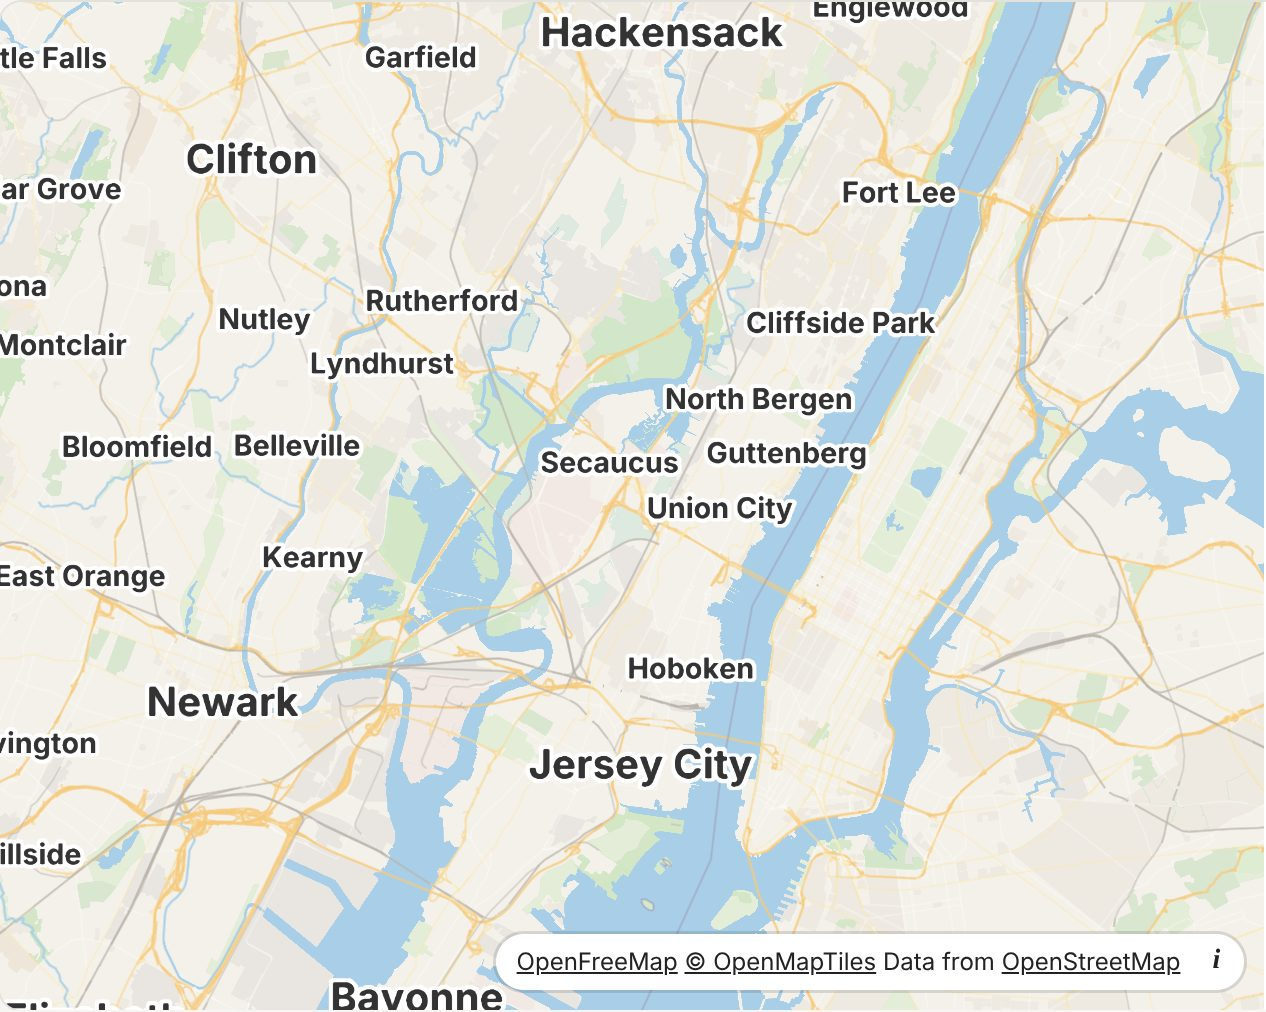
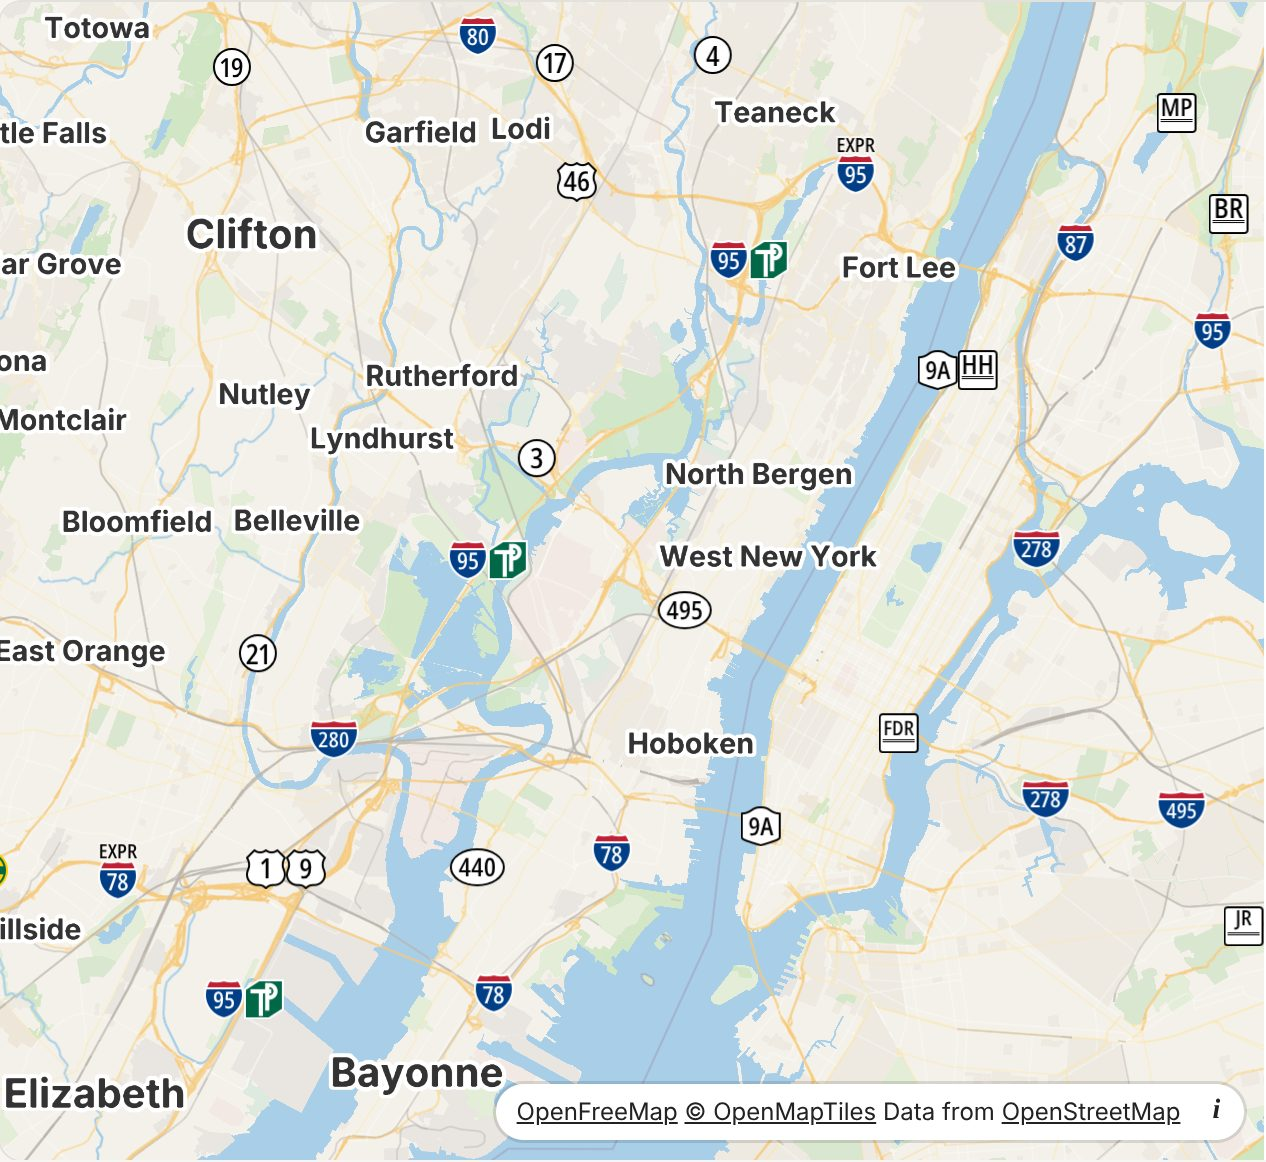
Images inside label text; side-by-side shields in the gallery
A format expression can contain images, which are measured and drawn in
line with the text at their own size. The gallery's shield row uses this
to show every route of a road, as OSM Americana does, and waits for the
shield definitions before adding its layer (requests made earlier were
lost on a cold load). The gallery accepts ?renderer=main or worker.

Claude-Session: https://claude.ai/code/session_013dg4LLCANTGDCd1Js6rXsf

diff --git a/src/text.ts b/src/text.ts
@@ -12,7 +12,15 @@ export const SDF_BUFFER = 4;
 export const SDF_RADIUS = 8;
 const LINE_HEIGHT = 1.2 * EM;
 
-export interface Glyph { x: number; y: number; w: number; h: number; left: number; top: number; advance: number }
+export interface Glyph {
+    x: number; y: number; w: number; h: number; left: number; top: number; advance: number;
+    /** An image in the text rather than a character: its name and height (in the same units as `advance`, which is its width). */
+    image?: string; imageHeight?: number;
+}
+/** Images that can appear inside text: their size in pixels, or undefined while one is not available yet. */
+export type ImageSizes = (name: string) => {width: number; height: number; pixelRatio: number} | undefined;
+// Inside the shaper each image in the text is one private-use character, so line breaking treats it as a single unit.
+const IMAGE_CHAR = 0xE100;
 export interface ShapedLine {
     text: string; width: number; glyphs?: Glyph[];
     /** The line split into the units that are positioned individually, with each one's advance. */
@@ -20,7 +28,7 @@ export interface ShapedLine {
 }
 /** All measurements are in pixels at a font size of EM. */
 export interface Shaped { lines: ShapedLine[]; width: number; height: number; lineHeight: number }
-export interface Shaper { shape(text: string, font: string, maxWidthEm: number, spacingEm: number, lineHeightEm?: number): Shaped }
+export interface Shaper { shape(text: string, font: string, maxWidthEm: number, spacingEm: number, lineHeightEm?: number, sizePx?: number): Shaped }
 
 const COMPLEX = /[֐-ࣿऀ-႟ក-៿יִ-﷿ﹰ-]/;
 const IDEOGRAPH = /[⺀-鿿가-힯豈-﫿＀-￯]/;
@@ -74,17 +82,39 @@ abstract class BaseShaper implements Shaper {
     private cache = new Map<string, Shaped>();
     protected abstract line(text: string, font: string, spacing: number): ShapedLine;
 
-    shape(text: string, font: string, maxWidthEm: number, spacingEm: number, lineHeightEm = 1.2): Shaped {
-        const key = `${font}|${maxWidthEm}|${spacingEm}|${lineHeightEm}|${text}`, LINE_HEIGHT = lineHeightEm * EM;
+    /** Set by whoever can supply images, to allow them inside text. */
+    images?: ImageSizes;
+    /** Images in the text being shaped, by placeholder character, and how many text units one image pixel is. */
+    protected inline: string[] = [];
+    protected imageScale = 1;
+    protected missingImage = false;
+
+    shape(text: string, font: string, maxWidthEm: number, spacingEm: number, lineHeightEm = 1.2, sizePx = 16): Shaped {
+        const hasImages = text.includes('\uE000');
+        const key = `${font}|${maxWidthEm}|${spacingEm}|${lineHeightEm}|${hasImages ? sizePx : ''}|${text}`, LINE_HEIGHT = lineHeightEm * EM;
         let s = this.cache.get(key);
         if (!s) {
             if (this.cache.size > 5000) this.cache.clear();
             const spacing = spacingEm * EM;
+            this.inline = []; this.missingImage = false;
+            // An image is drawn at its own size whatever the text size, so its width in text units depends on that size.
+            this.imageScale = EM / sizePx;
+            if (hasImages) text = text.replace(/\uE000([^\uE001]*)\uE001/g, (_, name) => this.images ? String.fromCharCode(IMAGE_CHAR + this.inline.push(name) - 1) : '');
             const lines = wrap(text, maxWidthEm * EM, t => this.line(t, font, spacing).width).map(t => this.line(t, font, spacing));
             s = {lines, width: Math.max(...lines.map(l => l.width)), height: lines.length * LINE_HEIGHT, lineHeight: LINE_HEIGHT};
-            this.cache.set(key, s);
+            // Text waiting for an image is shaped again once the image has arrived.
+            if (!this.missingImage) this.cache.set(key, s);
         }
         return s;
+    }
+    /** The stand-in glyph for an image placeholder character, or null for an ordinary character. */
+    protected imageGlyph(part: string): Glyph | null {
+        const i = part.charCodeAt(0) - IMAGE_CHAR;
+        if (part.length !== 1 || i < 0 || i >= this.inline.length) return null;
+        const name = this.inline[i], img = this.images?.(name);
+        if (!img) { this.missingImage = true; return {x: 0, y: 0, w: 0, h: 0, left: 0, top: 0, advance: EM, image: name, imageHeight: EM}; }
+        const k = this.imageScale / img.pixelRatio;
+        return {x: 0, y: 0, w: 0, h: 0, left: 0, top: 0, advance: img.width * k, image: name, imageHeight: img.height * k};
     }
     reset() { this.cache.clear(); }
 }
@@ -96,7 +126,7 @@ export class EstimateShaper extends BaseShaper {
         const bold = /[6-9]00/.test(font) ? 1.06 : 1, chars: string[] = [], advances: number[] = [];
         for (const ch of text) {
             n++;
-            const a = IDEOGRAPH.test(ch) ? EM : /[iljtfr.,:;'|! ]/.test(ch) ? EM * 0.3 : /[mwMW@]/.test(ch) ? EM * 0.85 : /[A-Z0-9]/.test(ch) ? EM * 0.66 : EM * 0.54;
+            const a = this.imageGlyph(ch)?.advance ?? (IDEOGRAPH.test(ch) ? EM : /[iljtfr.,:;'|! ]/.test(ch) ? EM * 0.3 : /[mwMW@]/.test(ch) ? EM * 0.85 : /[A-Z0-9]/.test(ch) ? EM * 0.66 : EM * 0.54);
             w += a; chars.push(ch); advances.push(a * bold);
         }
         return {text, width: w * bold + spacing * Math.max(0, n - 1), chars, advances};
@@ -138,7 +168,7 @@ export class GlyphAtlas extends BaseShaper {
     protected line(text: string, font: string, spacing: number): ShapedLine {
         // One atlas entry per grapheme, or per whole line when the browser must shape it.
         const parts = COMPLEX.test(text) ? [text] : graphemes(text);
-        const glyphs = parts.map(p => this.glyph(p, font));
+        const glyphs = parts.map(p => this.imageGlyph(p) ?? this.glyph(p, font));
         let width = spacing * Math.max(0, glyphs.length - 1);
         for (const g of glyphs) width += g.advance;
         return {text, width, glyphs, chars: parts, advances: glyphs.map(g => g.advance)};

diff --git a/site/gallery.js b/site/gallery.js
@@ -3,11 +3,13 @@
 import {Map, NavigationControl, ScaleControl, FullscreenControl} from 'map-jr-gl';
 import makeStyle from '../demo/style.mjs';
 import {markers, photos, manyMarkers, dot, pin} from '../demo/markers.mjs';
-import {americanaShields, shieldImage} from './americana.js';
+import {americanaShields, shieldRow} from './americana.js';
 
 const STYLE = makeStyle('https://tiles.openfreemap.org/planet', '<a href="https://openfreemap.org">OpenFreeMap</a> <a href="https://www.openmaptiles.org/">© OpenMapTiles</a> Data from <a href="https://www.openstreetmap.org/copyright">OpenStreetMap</a>');
 const NYC = [-74.0065, 40.7085], MATTERHORN = [7.6586, 45.9763];
-const base = (container, extra = {}) => new Map({container, style: structuredClone(STYLE), center: NYC, zoom: 13.6, attributionControl: {compact: true}, ...extra});
+// Add ?renderer=main (or worker) to the address to choose where the maps are drawn.
+const renderer = new URLSearchParams(location.search).get('renderer') ?? 'auto';
+const base = (container, extra = {}) => new Map({container, style: structuredClone(STYLE), center: NYC, zoom: 13.6, attributionControl: {compact: true}, renderer, ...extra});
 const loaded = map => new Promise(done => map.once('load', () => done(map)));
 const button = (row, label, onClick) => { const b = Object.assign(document.createElement('button'), {textContent: label}); b.onclick = () => onClick(b); row.actions.append(b); return b; };
 
@@ -83,7 +85,7 @@ const metres = await map.queryElevation(lngLat);`,
             row.out('Click the map to read the elevation'); return map; }},
 
     {id: 'shields', title: 'Icons made on demand: highway shields',
-        points: ['An icon that the style names but no sprite contains can be drawn when it is first necessary.', 'This row runs the OSM Americana shield library without changes. It draws the correct sign for each route network.', 'OpenMapTiles data (for example OpenFreeMap) already contains the route information.'],
+        points: ['An icon that the style names but no sprite contains can be drawn when it is first necessary.', 'This row runs the OSM Americana shield library without changes. It draws the correct sign for each route network, and puts the signs of a road with more than one route side by side.', 'OpenMapTiles data (for example OpenFreeMap) already contains the route information.'],
         code: `// A resolver gets the icon name and supplies the image. SVG is accepted.
 map.setMissingStyleImageResolver(name => {
   const [kind, network, ref] = name.split('|');
@@ -94,17 +96,21 @@ map.addLayer({id: 'shields', type: 'symbol', source: 'omt',
   'source-layer': 'transportation_name',
   layout: {
     'symbol-placement': 'line',
-    'icon-rotation-alignment': 'viewport',
-    'icon-image': ['concat', 'shield|', ['get', 'route_1_network'], '|', ['get', 'route_1_ref']],
+    'text-rotation-alignment': 'viewport',
+    // Images in the text put the shields of a road with two routes side by side.
+    'text-field': ['format',
+      ['image', ['concat', 'shield|', ['get', 'route_1_network'], '|', ['get', 'route_1_ref']]], {},
+      ['image', ['concat', 'shield|', ['get', 'route_2_network'], '|', ['get', 'route_2_ref']]], {}],
   }});`,
         make: async (el, row) => { const map = await loaded(base(el, {zoom: 10.2, center: [-74.05, 40.78]}));
             map.setLayoutProperty('road-shield', 'visibility', 'none');
-            map.addLayer({id: 'americana-shield', type: 'symbol', source: 'omt', 'source-layer': 'transportation_name', minzoom: 6, filter: ['has', 'route_1_network'],
-                layout: {'symbol-placement': 'line', 'symbol-spacing': 300, 'icon-rotation-alignment': 'viewport', 'icon-image': shieldImage(1)}});
+            row.out('Loading shield definitions');
+            await americanaShields(map);
             let drawn = 0;
             map.on('styleimagemissing', () => row.out(`${++drawn} different shields drawn`));
-            row.out('Loading shield definitions');
-            await americanaShields(map); return map; }},
+            map.addLayer({id: 'americana-shield', type: 'symbol', source: 'omt', 'source-layer': 'transportation_name', minzoom: 6, filter: ['has', 'route_1_network'],
+                layout: {'symbol-placement': 'line', 'symbol-spacing': 300, 'text-rotation-alignment': 'viewport', 'text-field': shieldRow(4), 'text-padding': 6}});
+            return map; }},
 
     {id: 'query', title: 'Ask the map what is at a position',
         points: ['queryFeatures reads the tile data directly. A style layer is not necessary, and hidden data is included.', 'Feature state changes how one feature looks, for example on hover.', 'GeoJSON sources update in place with setData.'],

diff --git a/src/gl.ts b/src/gl.ts
@@ -1022,7 +1022,7 @@ export class GLRenderer {
 
         // Style-sheet icons and images added at runtime live in different textures.
         for (const custom of [false, true]) {
-            const icons = this.iconQuads(s.labels, custom);
+            const icons = this.iconQuads(s.labels, custom, s.icon);
             if (!icons.length) continue;
             const u = use('sprite');
             gl.activeTexture(gl.TEXTURE0);
@@ -1086,7 +1086,7 @@ export class GLRenderer {
         return behind;
     }
 
-    private iconQuads(labels: Placed[], custom: boolean): Float32Array {
+    private iconQuads(labels: Placed[], custom: boolean, lookup?: Scene['icon']): Float32Array {
         const mine = labels.filter(l => l.icon && !!l.icon.custom === custom && l.opacity > 0);
         const out: number[] = [];
         for (const {icon, opacity} of mine) {
@@ -1104,6 +1104,30 @@ export class GLRenderer {
                     out.push(i.x + ox + dx * cos - dy * sin, i.y + oy + dx * sin + dy * cos, sx + gx[a + cx * 2], sy + gy[b + cy * 2], opacity * i.opacity, ...col);
                 }
             }
+        }
+        // Images inside label text (`format` with `image`): each sits on its line where a glyph would, at its own size.
+        if (lookup) for (const l of labels) {
+            const shaped = l.shaped;
+            if (!shaped || l.curve || l.opacity <= 0) continue;
+            const k = l.size / EM, cos = Math.cos(l.angle), sin = Math.sin(l.angle);
+            shaped.lines.forEach((line, row) => {
+                if (!line.glyphs?.some(g => g.image)) return;
+                let pen = l.src.justify < 0 ? -shaped.width / 2 : l.src.justify > 0 ? shaped.width / 2 - line.width : -line.width / 2;
+                const mid = -shaped.height / 2 + (row + 0.5) * shaped.lineHeight;
+                for (const g of line.glyphs) {
+                    const img = g.image ? lookup(g.image) : undefined;
+                    if (img && !!img.custom === custom) {
+                        const w = g.advance * k, h = g.imageHeight! * k, cx = (pen + g.advance / 2) * k, cy = mid * k;
+                        const snap = (v: number) => Math.round(v * this.dpr) / this.dpr;
+                        const x0 = l.angle === 0 ? snap(l.x + cx - w / 2) - l.x : cx - w / 2, y0 = l.angle === 0 ? snap(l.y + cy - h / 2) - l.y : cy - h / 2;
+                        for (const [ux, uy] of [[0, 0], [1, 0], [0, 1], [1, 0], [1, 1], [0, 1]]) {
+                            const dx = x0 + ux * w, dy = y0 + uy * h;
+                            out.push(l.x + dx * cos - dy * sin, l.y + dx * sin + dy * cos, img.x + ux * img.width, img.y + uy * img.height, l.opacity, 0, 0, 0, -1);
+                        }
+                    }
+                    pen += g.advance + l.src.spacing * EM;
+                }
+            });
         }
         return new Float32Array(out);
     }

diff --git a/src/expr.ts b/src/expr.ts
@@ -89,6 +89,9 @@ export function featureStateOf(source: string | undefined, sourceLayer: string |
     return states && states[`${sourceLayer ?? ''}|${id}`];
 }
 
+/** An image inside label text (`format` with `image`) travels through the text as its name between these two characters. */
+export const IMAGE_OPEN = '\uE000', IMAGE_CLOSE = '\uE001', IMAGE_IN_TEXT = /\uE000([^\uE001]*)\uE001/g;
+
 function colorize(v: any): any {
     return typeof v === 'string' ? (parseColor(v) ?? v) : v;
 }
@@ -261,11 +264,17 @@ export function compileExpr(e: any, flags: Flags): Fn {
             return c => color([a[0](c) / 255, a[1](c) / 255, a[2](c) / 255, a[3] ? a[3](c) : 1]);
         }
         case 'format': {
-            // Rich text sections are flattened to plain text for now.
+            // Rich text is flattened to plain text, except for images, which stay in the string as markers (see
+            // IMAGE_OPEN) and are drawn in line with the text.
             const parts: Fn[] = [];
-            for (let i = 1; i < e.length; i++) if (typeof e[i] !== 'object' || Array.isArray(e[i])) parts.push(arg(i));
+            for (let i = 1; i < e.length; i++) {
+                const part = e[i];
+                if (Array.isArray(part) && part[0] === 'image') { const name = compileExpr(part[1], flags); parts.push(c => { const n = name(c); return n ? IMAGE_OPEN + n + IMAGE_CLOSE : ''; }); }
+                else if (typeof part !== 'object' || Array.isArray(part)) parts.push(arg(i));
+            }
             return c => parts.map(f => f(c) ?? '').join('');
         }
+        case 'image': return arg(1);
         case 'number-format': {
             const a = arg(1), o = e[2] ?? {}, cache = new Map<string, Intl.NumberFormat>();
             const opt = (k: string) => o[k] === undefined ? null : compileExpr(o[k], flags);

diff --git a/site/americana.js b/site/americana.js
@@ -46,6 +46,12 @@ async function loadShieldFonts(base = 'https://webfont.americanamap.org/noto/') 
     }));
 }
 
+/**
+ * A `text-field` that shows up to `count` shields side by side, one for each route that uses the road. Roads often
+ * carry more than one route (an Interstate and a US route, for example).
+ */
+export const shieldRow = (count = 4) => ['format', ...Array.from({length: count}, (_, i) => [['image', ['case', ['has', `route_${i + 1}_network`], shieldImage(i + 1), '']], {}]).flat()];
+
 /** Draws Americana shields for any image named by `shieldImage`. OpenMapTiles data (e.g. OpenFreeMap) carries what it needs. */
 export async function americanaShields(map, {shields = 'https://americanamap.org/shields.json', sprite = 'https://americanamap.org/sprites/sprite'} = {}) {
     const parser = {
@@ -53,10 +59,14 @@ export async function americanaShields(map, {shields = 'https://americanamap.org
         format: (network, ref, name) => `shield\n${network}\n${ref}\n${name}`,
     };
     await loadShieldFonts();
-    return new URLShieldRenderer(shields, parser)
+    const renderer = new URLShieldRenderer(shields, parser)
         .filterImageID(id => id.startsWith('shield\n'))
         // Walking, cycling and other non-road route networks are not highway shields.
         .filterNetwork(network => !/^[lrni][chimpw]n$/.test(network))
         .renderOnRepository(await spriteRepository(map, sprite))
         .renderOnMaplibreGL(map);
+    // The definitions download in the background. A shield that is asked for before they arrive is not drawn (and a
+    // map asks for each image only once), so wait for them before adding a layer that uses shields.
+    await new Promise(done => renderer.onShieldDefLoad(done));
+    return renderer;
 }

diff --git a/test/unit/core.test.ts b/test/unit/core.test.ts
@@ -454,3 +454,18 @@ test('padding: the centre moves to the middle of the unpadded area, consistently
     const clip = [0, 1, 3].map(r => m[r] * 1000 + m[4 + r] * 3000 + m[12 + r]);
     assert.ok(Math.abs((clip[0] / clip[2] + 1) / 2 * 800 - sx) < 1e-3 && Math.abs((1 - clip[1] / clip[2]) / 2 * 600 - sy) < 1e-3, `${clip} vs ${sx},${sy}`);
 });
+
+test('text: images in a format expression travel through the text and are measured as single units', async () => {
+    const {IMAGE_OPEN, IMAGE_CLOSE} = await import('../../src/expr.ts');
+    const {EstimateShaper, EM} = await import('../../src/text.ts');
+    const field = compileProp(['format', ['image', ['get', 'a']], {}, 'AB', {}, ['image', ['coalesce', ['get', 'missing'], '']], {}], 'string', '');
+    const text = field.eval(10, {type: 1, properties: {a: 'shield one'}});
+    assert.equal(text, `${IMAGE_OPEN}shield one${IMAGE_CLOSE}AB`, 'an image with no name leaves nothing behind');
+    // A shaper that knows the image is 40 pixels wide at 2x: at 16-pixel text that is 20 pixels, or 30 text units.
+    const shaper = new EstimateShaper();
+    shaper.images = name => name === 'shield one' ? {width: 40, height: 40, pixelRatio: 2} : undefined;
+    const plain = shaper.shape('AB', 'x', 100, 0, 1.2, 16).width;
+    assert.ok(Math.abs(shaper.shape(text, 'x', 100, 0, 1.2, 16).width - plain - 40 / 2 * EM / 16) < 1e-6);
+    // Without anyone to supply images (the server renderer), the image is simply left out.
+    assert.equal(new EstimateShaper().shape(text, 'x', 100, 0, 1.2, 16).width, plain);
+});

diff --git a/src/tile.ts b/src/tile.ts
@@ -117,7 +117,11 @@ export function buildTile(data: Uint8Array | TileLayers, z: number, layers: Comp
                 const iconName = tokens(p.icon.eval(z, f));
                 if (!text && !iconName) continue;
                 const tt = p.transform.eval(z, f);
-                if (tt === 'uppercase') text = text.toUpperCase(); else if (tt === 'lowercase') text = text.toLowerCase();
+                if (tt === 'uppercase' || tt === 'lowercase') {
+                    // (Image names inside the text are left as they are.)
+                    const change = (t: string) => tt === 'uppercase' ? t.toUpperCase() : t.toLowerCase();
+                    text = text.split(/(\uE000[^\uE001]*\uE001)/).map((part, i) => i % 2 ? part : change(part)).join('');
+                }
                 const color = p.color.eval(z, f) as RGBA, op = p.opacity.eval(z, f);
                 const along = p.placement.eval(z, f) !== 'point';
                 const base = {

diff --git a/src/placement.ts b/src/placement.ts
@@ -96,7 +96,7 @@ export function placeLabels(
                 if (tr.heightAt) { const n = 2 ** it.id.z; if (tr.occluded((it.id.x + it.id.w * n + l.x / EXTENT) / n, (it.id.y + l.y / EXTENT) / n)) continue; }
                 const size = l.size0 + (l.size1 - l.size0) * t, s = size / EM, line = l.angle !== null;
                 const meta = l.icon ? icons?.(l.icon.name) : undefined;
-                const shaped = l.text ? shaper.shape(l.text, l.font, line ? 1e3 : l.maxWidth, l.spacing, l.lineHeight) : null;
+                const shaped = l.text ? shaper.shape(l.text, l.font, line ? 1e3 : l.maxWidth, l.spacing, l.lineHeight, l.size0) : null;
                 const w = shaped ? shaped.width * s : 0, h = shaped ? shaped.height * s : 0;
                 const hasText = w > 0;
                 if (!hasText && !meta) continue;

diff --git a/src/svg.ts b/src/svg.ts
@@ -191,7 +191,7 @@ export function renderSVG(s: SVGScene): string {
             shaped.lines.forEach((line, i) => {
                 const y = l.y + (-shaped.height / 2 + i * shaped.lineHeight + shaped.lineHeight * 0.5 + EM * 0.34) * k;
                 const x = l.x + src.justify * (line.width - shaped.width) / 2 * k;
-                body.push(`<text x="${num(x)}" y="${num(y)}"${rot} ${common}>${escapeXML(line.text)}</text>`);
+                body.push(`<text x="${num(x)}" y="${num(y)}"${rot} ${common}>${escapeXML(line.text.replace(/[\uE000-\uF8FF]/g, ''))}</text>`); // images inside text are not drawn in SVG output
             });
         }
         body.push('</g>');

diff --git a/src/engine.ts b/src/engine.ts
@@ -172,6 +172,7 @@ export class Engine {
     constructor(canvas: HTMLCanvasElement | OffscreenCanvas, o: EngineOptions, private backends: TileBackend[], private emit: (e: EngineEvent) => void) {
         this.renderer = new GLRenderer(canvas, o.antialias);
         this.atlas = new GlyphAtlas(o.fontFamily);
+        this.atlas.images = name => this.icon(name);
         this.atlas.onReset = () => this.labels.clear();
         this.tr.width = o.width;
         this.tr.height = o.height;

diff --git a/README.md b/README.md
@@ -28,12 +28,12 @@ These figures are written by `pnpm status`. They compare this library with MapLi
 
 | Measure | Result |
 |---|---|
-| Unit tests | 26 pass, 0 fail |
+| Unit tests | 27 pass, 0 fail |
 | MapLibre expression tests | 281 of 425 pass |
 | MapLibre `Map` methods | 104 of 150 are available |
 | MapLibre render tests | 512 of 1429 are the same (1% of pixels or less are different). 302 more are near (5% or less). |
-| Page script (gzip) | 29 KB. MapLibre GL JS: 299 KB. |
-| Worker script (gzip) | 46 KB. MapLibre GL JS: 145 KB. |
+| Page script (gzip) | 30 KB. MapLibre GL JS: 299 KB. |
+| Worker script (gzip) | 48 KB. MapLibre GL JS: 145 KB. |
 | Server renderer (gzip) | 27 KB |
 <!-- status:end -->
 
@@ -196,6 +196,8 @@ map.setMissingStyleImageResolver(name => {
 ```
 
 The OSM Americana shield library works with this library without changes. The gallery shows it.
+
+A label can contain images (`format` with `image`). Thus a road with two routes shows two shields side by side.
 
 ![Highway shields on a road map](docs/images/shields.jpg)
 

diff --git a/docs/maplibre-compatibility.md b/docs/maplibre-compatibility.md
@@ -78,7 +78,7 @@ Properties:
 - Icon halos
 - `text-writing-mode`, `text-pitch-alignment`, `text-variable-anchor-offset`, `text-max-angle`
 - `symbol-z-order` and `symbol-avoid-edges`
-- Images and more than one font in one `format` text
+- More than one font, size or colour in one `format` text. Images in `format` text are available.
 
 Other:
 
